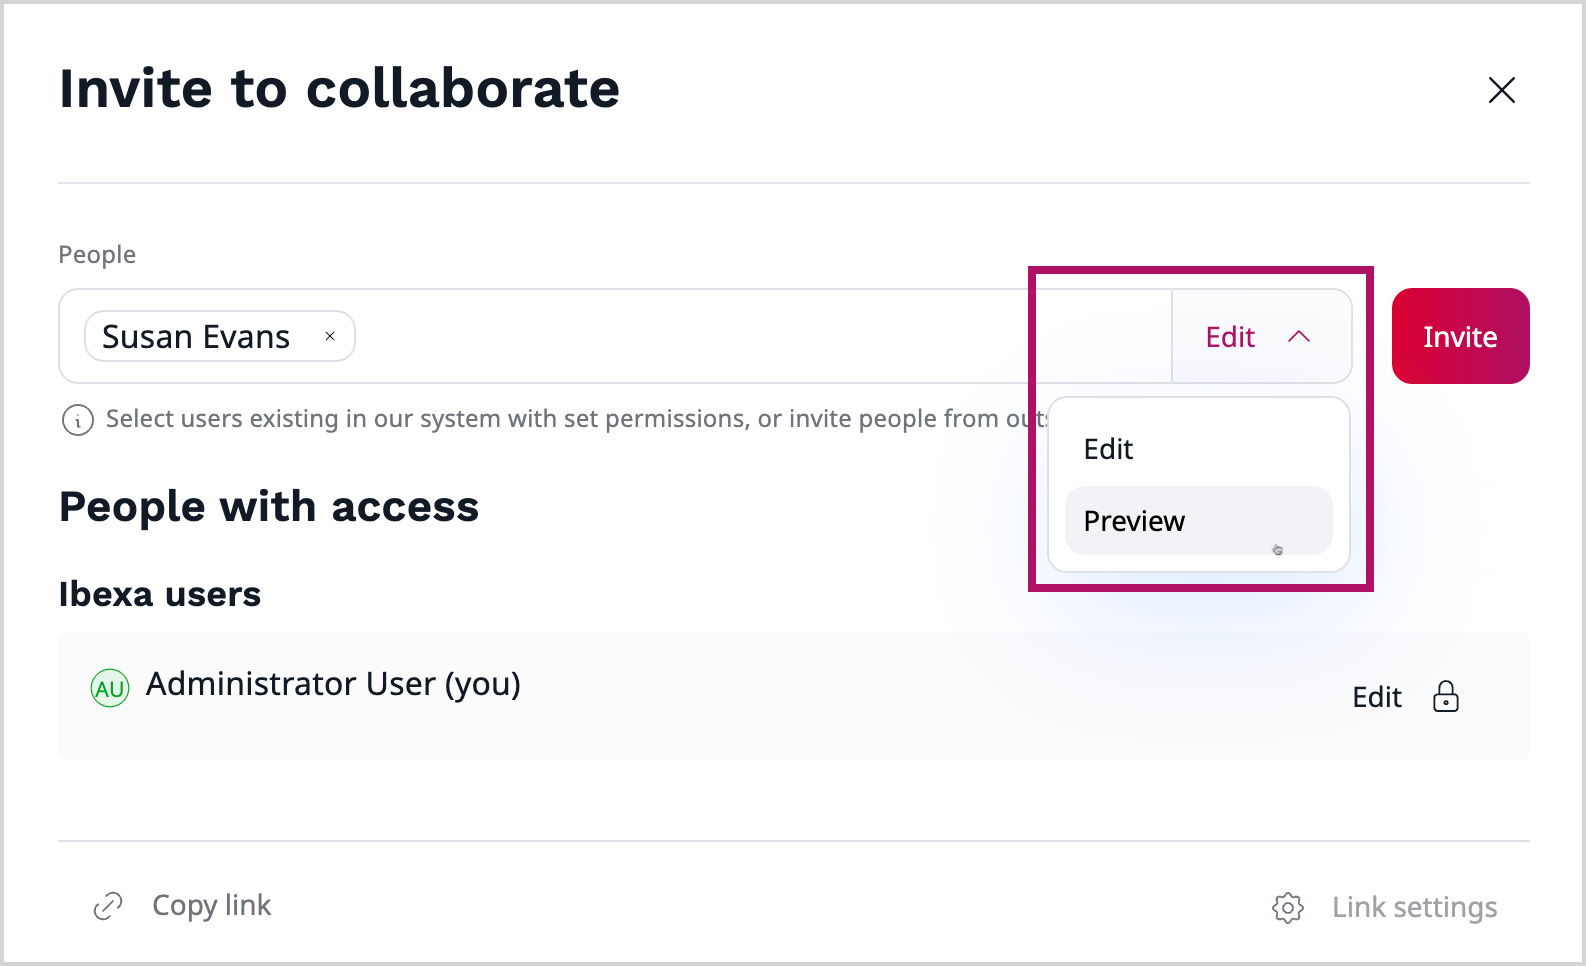
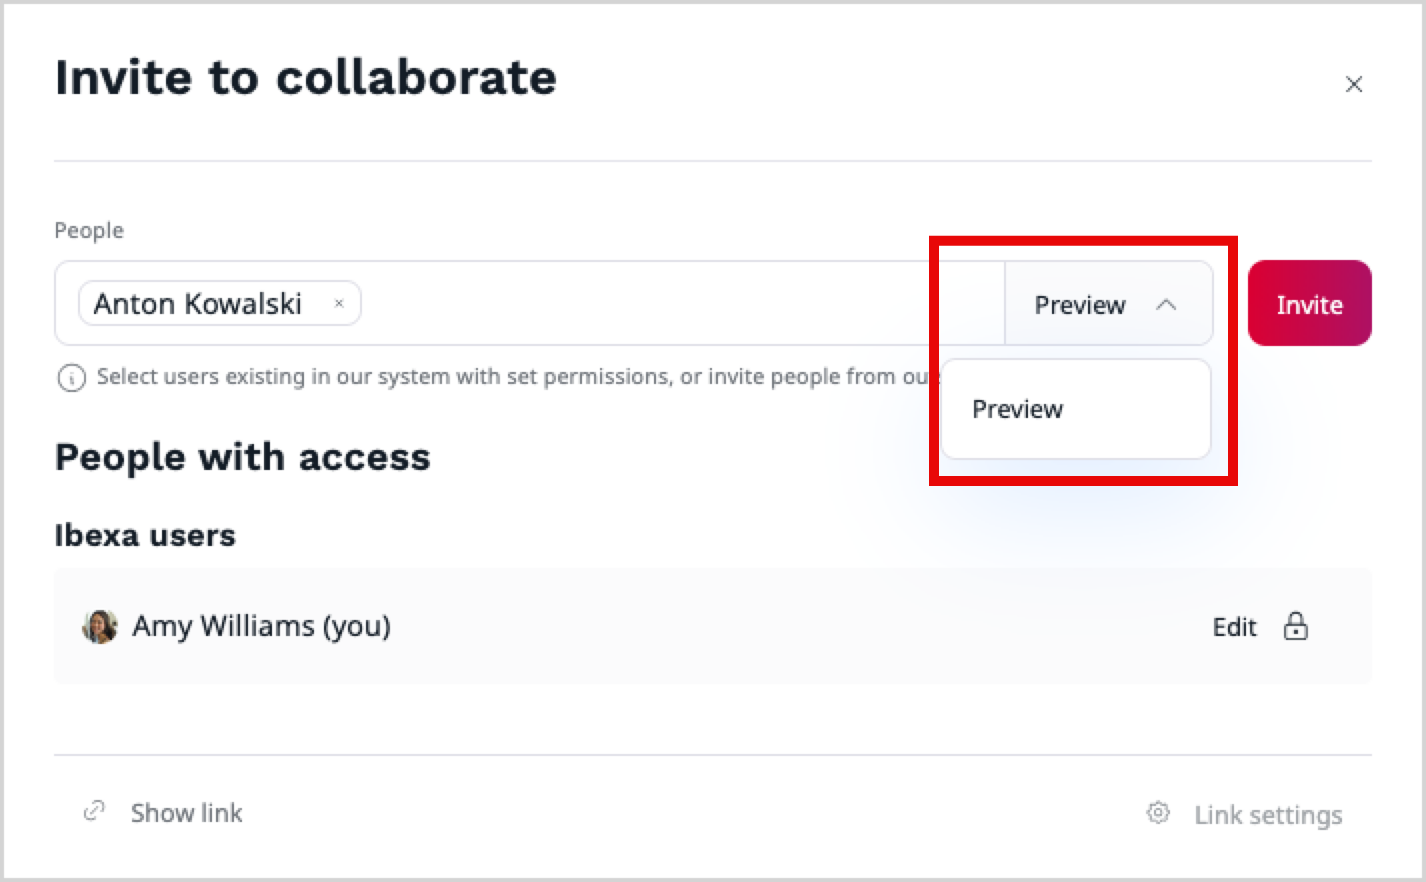
IBX-13242: Remove realtime editing from dev doc

diff --git a/docs/content_management/content_sharing.md b/docs/content_management/content_sharing.md
@@ -1,0 +1,102 @@
+---
+description: Learn about Content sharing LTS update and its capabilities.
+edition: lts-update
+---
+
+# Content sharing
+
+Content sharing is an [LTS Update]([[= developer_doc =]]/ibexa_products/editions#lts-updates) that allows you to share content drafts with other users, so that they can preview and review them before publication.
+It's not included in [[= product_name =]] by default and requires separate installation and system configuration.
+
+By giving users access to preview the content before it's published, review and collaboration become much easier.
+An additional option here is the ability to copy a link to the content item, which allows to share it through communication channels.
+It improves collaboration with members of other teams, such as subject matter experts, compliance professionals, and sales representatives, to increase content quality.
+
+## Collaboration session
+
+You can invite other users to join a collaboration session when you create a new draft of a content item, or when you view an existing content item.
+
+To invite collaborators, create a new collaboration session:
+
+- click the **Share** icon in the editing screen of a content item draft
+- click the **Share** button in the details screen of an existing content item - this creates a new draft and opens it in the editing screen. If the content item has more than one translation, select the language first.
+
+![Share icon](img/share_button.png)
+
+Then, in a pop-up window, you can invite users to the newly created session.
+You can invite two types of users:
+
+- **Internal** - by searching their name or email address.
+- **External** - by providing their email address in the field.
+
+![Inviting users](img/invite_external_user.png)
+
+To confirm the provided email address, press the **Enter** key on your keyboard.
+
+!!! tip "Access restrictions"
+
+    When inviting internal users, you can only invite users with permissions to access the shared content.
+    Users without permissions are grayed out and you can't select them and invite them to the session.
+    Both internal and external users can only preview the content item.
+
+After you invite the user by clicking the **Invite** button, they appear in the **People with access** list.
+In the same pop-up window, you can remove access for specific user.
+To do it, click the **Arrow symbol** and select **Remove**.
+
+![Change access](img/change_access.png)
+
+Additionally, you can share a direct link to the collaboration session without specifying a particular user.
+To do it, click the **Copy link** button.
+Link is copied to the clipboard and you can share it with the users through communication channels.
+
+Use the **Link settings** button to control whether a user needs an account in the system to preview content using the direct link.
+
+To confirm inviting users and create a session, you must **Save and close** the draft.
+
+After you invite users to a collaboration session, they receive a notification:
+
+- visible when clicking the **Notification** icon on the main dashboard (internal users)
+- by email (external users)
+
+![Notification - internal user](img/internal_notification.png)
+
+Collaboration session begins when the first invited user accepts the invitation and joins the session, and ends when the owner performs one of the following action:
+
+- save and close
+- publish the content (including "Publish later" option)
+- delete content draft
+- discard
+- move the draft in the workflow
+- end collaboration session
+
+Apart from clicking an invitation, internal users can also join a collaboration session using the **Join** button:
+
+- available in the [**My content** block tabs](#dashboard-block-tabs) on the dashboard
+- by accessing a content draft in the **Drafts** menu
+- in the **Versions** tab of the content item
+
+Invited users who join the session see the preview of the draft.
+The owner of the draft is taken to the editing screen instead.
+
+Each user can leave the collaboration session or rejoin it at any moment.
+
+## Work with shared drafts
+
+You can access the shared draft in **Content** -> **Drafts**.
+Here you can join your collaboration session, share the draft with more users or revoke their invitations, or delete the draft.
+
+Other users with access to the shared content item can edit the content item and create new drafts, share them with other users, or delete their draft, but they can't access or preview drafts that are associated with your collaboration session.
+
+![Work with draft](img/work_with_draft.png)
+
+## Dashboard block tabs
+
+Content sharing feature brings two tabs in **My content** dashboard block:
+
+- **My shared drafts** - displays all drafts with active collaboration sessions that you shared with others.
+From this tab, you can perform the following actions: Share, to invite more users or revoke their invitations, and Join, to edit your draft
+
+- **Drafts shared with me** - displays all drafts with active collaborations that other users shared with you.
+From this tab, you can only Join the session to preview the content item
+
+![Dashboard block - My content - new tabs](img/my_content_tabs.png)

diff --git a/docs/content_management/create_edit_content_items.md b/docs/content_management/create_edit_content_items.md
@@ -122,12 +122,6 @@ The option bar also lets you reorder or remove any elements in the Rich Text fie
 
 <!--ARCADE EMBED START--><div style="position: relative; padding-bottom: calc(51.27314814814815% + 41px); height: 0; width: 100%;"><iframe src="https://demo.arcade.software/wkdL1r9PRunTeF6hPtEs?embed&embed_mobile=tab&embed_desktop=inline&show_copy_link=true" title="Online Editor - work in Rich Text field" frameborder="0" loading="lazy" webkitallowfullscreen mozallowfullscreen allowfullscreen allow="clipboard-write" style="position: absolute; top: 0; left: 0; width: 100%; height: 100%; color-scheme: light;" ></iframe></div><!--ARCADE EMBED END-->
 
-#### Collaborative editing
-
-Rich Text fields allow multiple users to edit the content simultaneously thanks to the [Collaborative editing feature](collaborative_editing.md).
-When creating a new content item, the owner can invite other users, both internal and external, to collaborate on the content.
-Invited users can either edit the Rich Text fields or only preview the content (for example, for review purposes), depending on the access permissions granted.
-
 #### Edit embedded content items
 
 You can edit embedded content items without leaving current window.

diff --git a/docs/getting_started/dashboard/dashboard_block_reference.md b/docs/getting_started/dashboard/dashboard_block_reference.md
@@ -57,7 +57,7 @@ On the **Properties** tab, set values in the following fields:
 
 On the **Design** tab, in the **View** field, select the layout to be used to present a list of content and submit your changes.
 
-With the [Collaborative editing LTS update](collaborative_editing.md), two new tabs are available in **My content** block: **My shared drafts** and **Drafts shared with me**.
+With the [Content sharing LTS update](content_sharing.md), two tabs are available in **My content** block: **My shared drafts** and **Drafts shared with me**.
 
 ## Orders by status block [[% include 'snippets/commerce_badge.md' %]]
 
